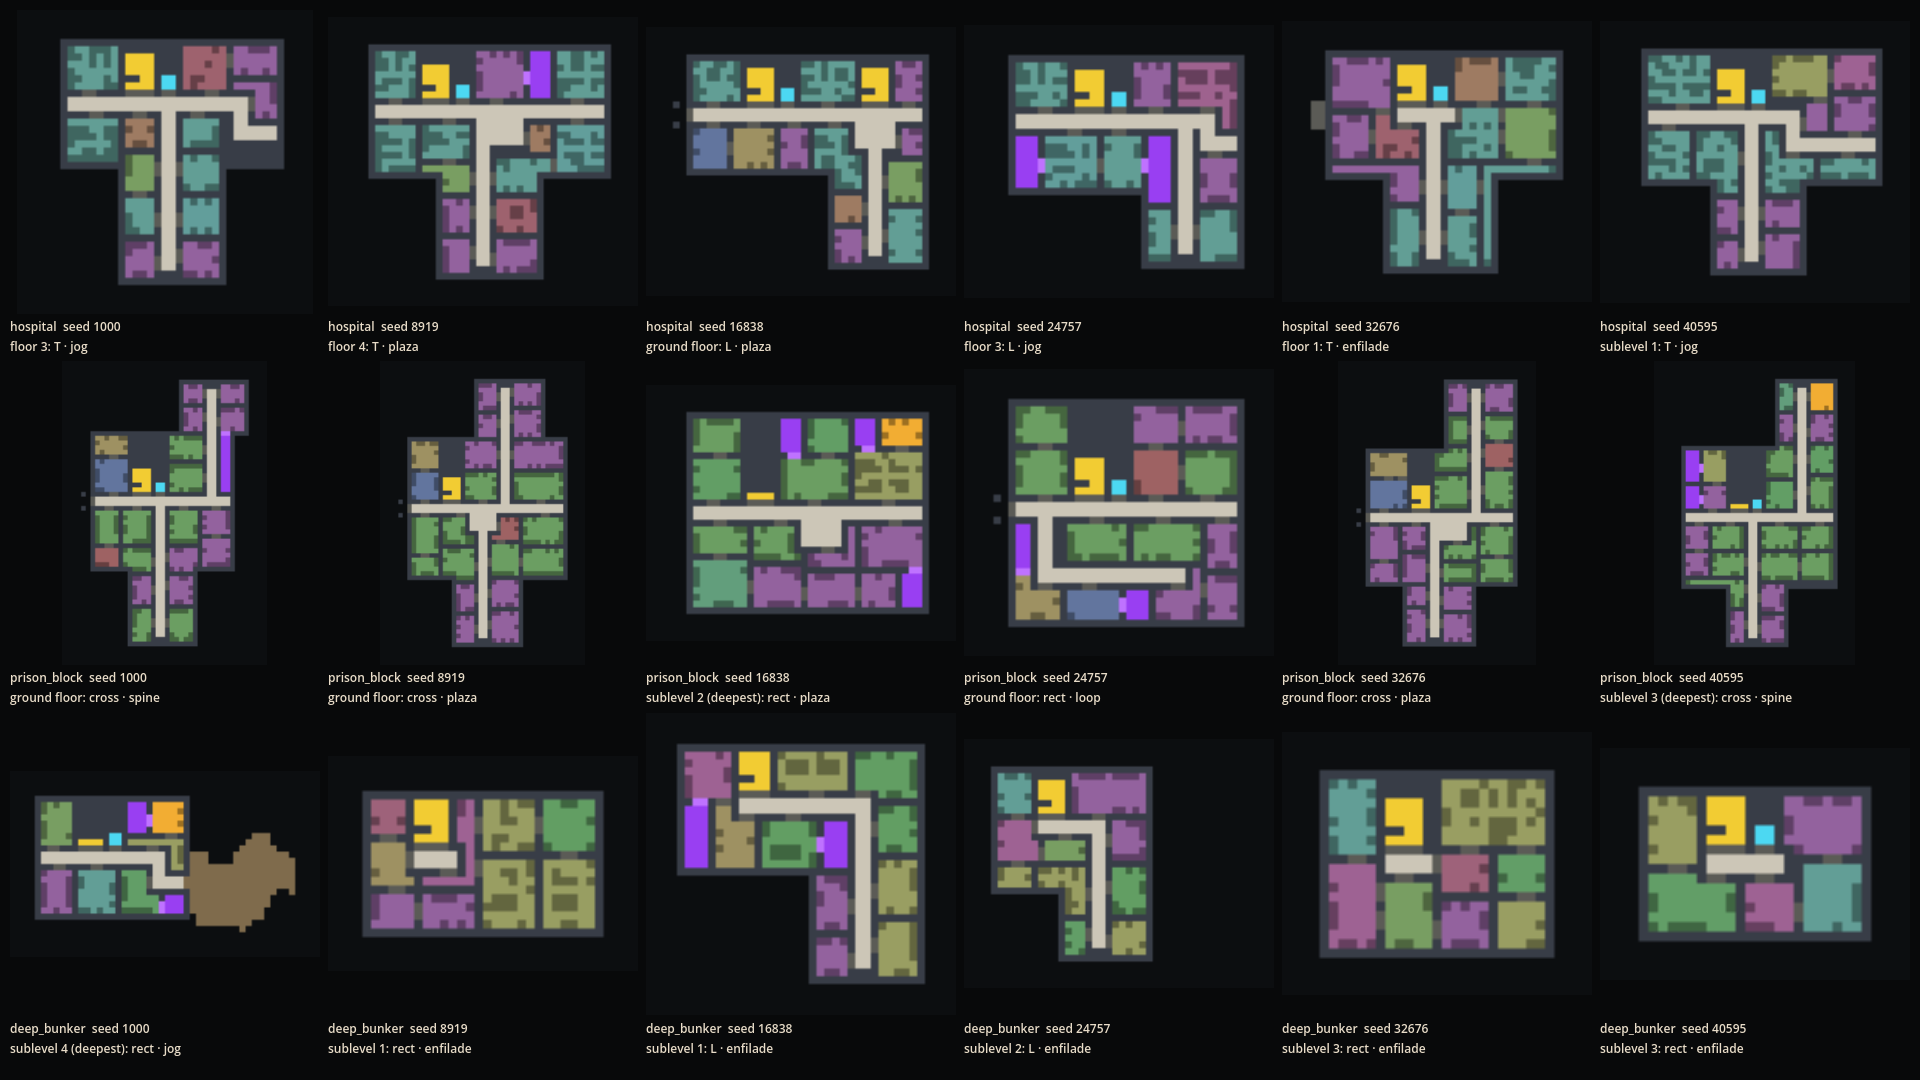
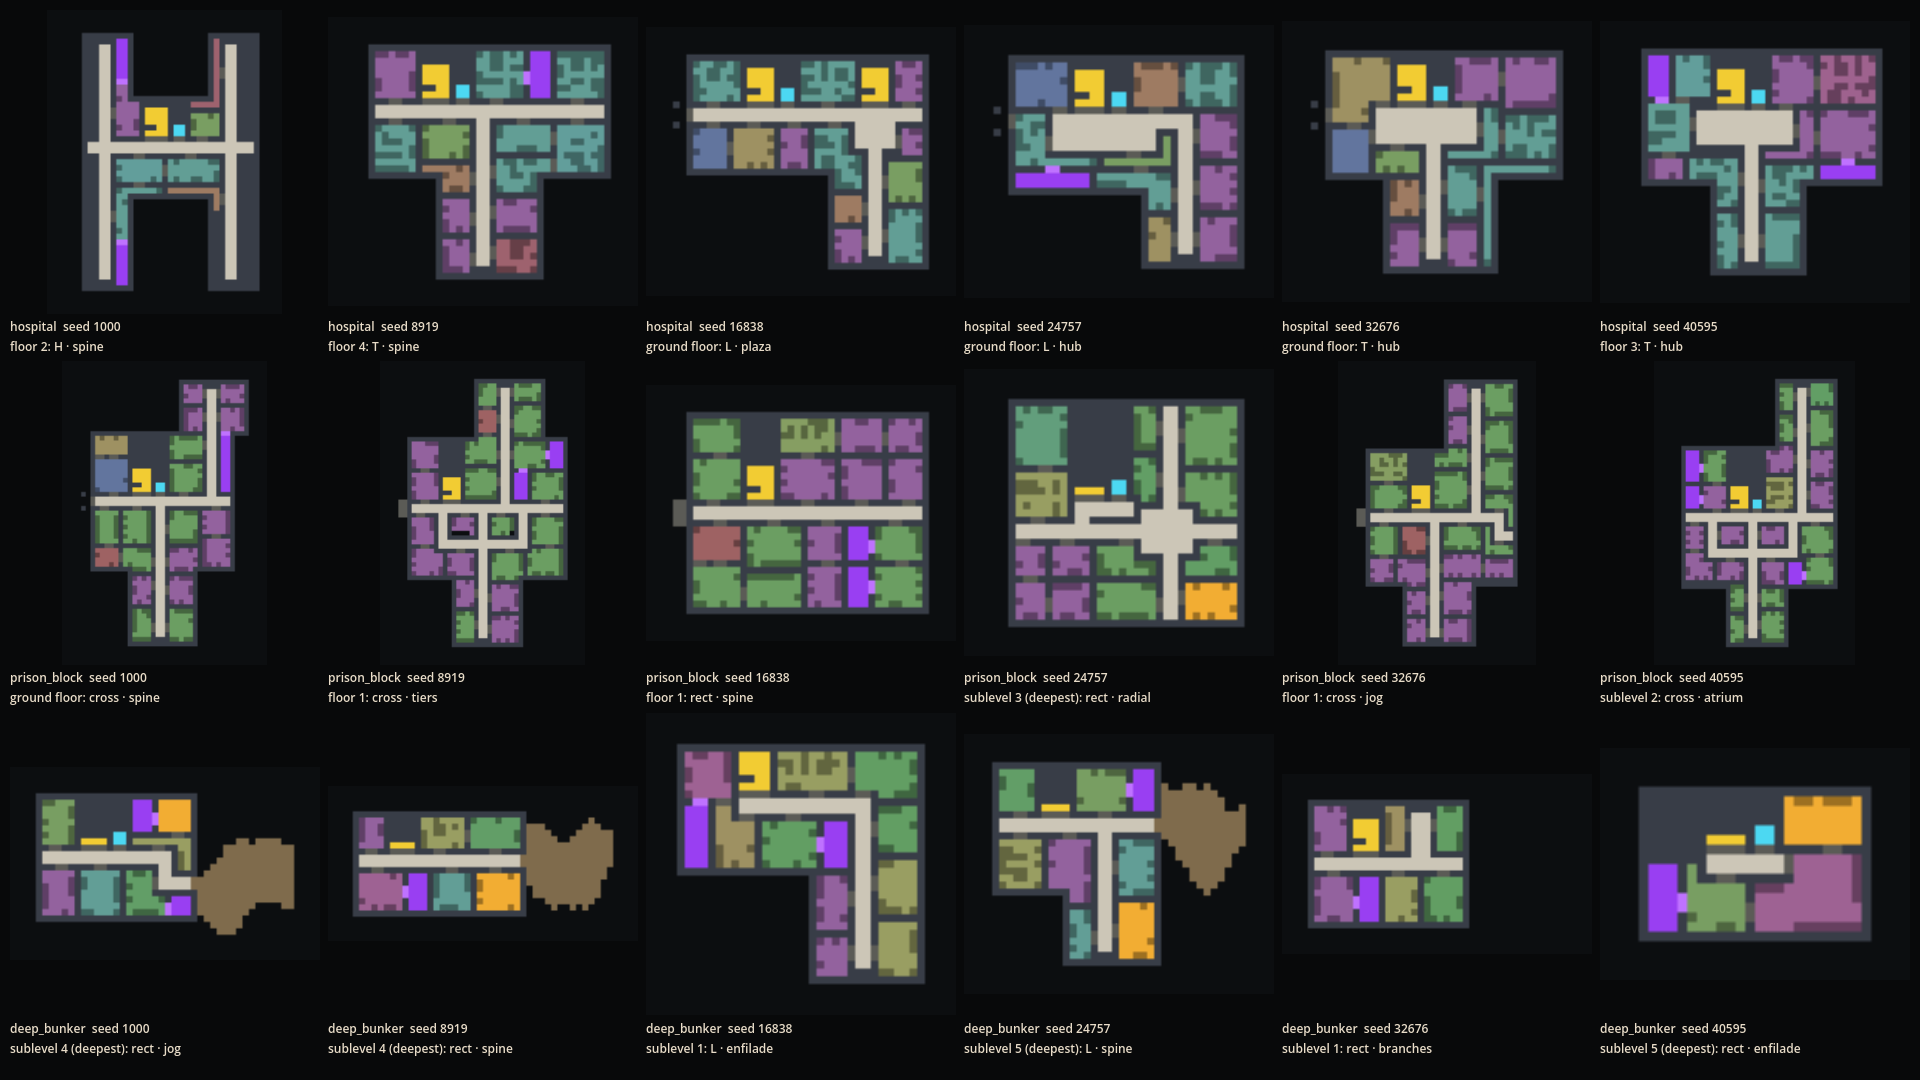
Circulation variety within a type: radial and tiered prisons, ward loops, hubs, branching bunkers
New circulation patterns: radial (a hub with spokes to every side), tiers (a
tiered atrium: galleries stacked round one void, storey on storey), racetrack
(a ward loop: two parallel corridors joined at both ends), hub (a hall round
the stair core with the wings branching off it) and branches (tunnels off a
main gallery). Round a courtyard the ring itself varies: a full cloister walk,
a horseshoe open on one side, or spokes out to the street. Prisons now walk
radial, tiered or cross; hospitals spread H and U wings with ward loops and
hubs; bunkers branch.

New check: circulation varies within a type (no pattern walks more than 45% of
a type's storeys; every type with a broad grammar uses at least three); the
commonest coarse topology is held to 15% of a type's seeds (was 25%).

Repairs found on the way: no cache or terminal stands on the plan's own way
from the door to the vault; a vault whose caches walled each other in keeps one
where it can be reached, and that one is the one it is judged by.

diff --git a/prototypes/poi-generator/src/Gen/Arch/Building.cs b/prototypes/poi-generator/src/Gen/Arch/Building.cs
@@ -91,6 +91,8 @@ public sealed partial class Building
         public byte[,] K = null!;
         public int[,] R = null!;            // room index for Free cells
         public string Pattern = "spine";
+        /// <summary>The ring this storey ran (loops, atriums, tiers): a tiered atrium stacks the same ring storey on storey.</summary>
+        public (int a, int b, int z1, int z2) Ring;
         public List<RoomPlan> Rooms = new();
         public int Corridor = -1;           // its corridor network's module
         public List<(int x, int z)> Holes = new();
@@ -399,9 +401,16 @@ public sealed partial class Building
         var rng = Rng.Fork($"plan{s}:{attempt}");
         // A building works through its repertoire: a circulation already used on another storey is less likely again.
         var usedPatterns = _plans.Values.Select(p => p.Pattern).ToList();
-        string pattern = options[Math.Max(0, rng.PickWeighted(options.Select(o => o.Weight * MathF.Pow(0.3f, usedPatterns.Count(u => u == o.Key))).ToList()))].Key;
+        // (Tiers are meant to repeat: a tiered atrium is galleries stacked round one void.)
+        string pattern = options[Math.Max(0, rng.PickWeighted(options.Select(o => o.Weight * (o.Key == "tiers" ? 1f : MathF.Pow(0.3f, usedPatterns.Count(u => u == o.Key)))).ToList()))].Key;
         if (attempt > 0 && options.Count > 1 && _plans.TryGetValue(s + 1, out var above) && above.Pattern == pattern)
             pattern = options[(options.FindIndex(o => o.Key == pattern) + attempt) % options.Count].Key;
+        // Round a courtyard the ring itself varies: a full cloister walk, a horseshoe open on one side, or spokes out to the street.
+        if (pattern == "court")
+        {
+            string[] forms = { "court", "cloister", "horseshoe" };
+            pattern = forms[Math.Max(0, rng.PickWeighted(forms.Select(fm => MathF.Pow(0.3f, usedPatterns.Count(u => u == fm))).ToList()))];
+        }
         plan.Pattern = pattern;
 
         var corr = new HashSet<(int, int)>();
@@ -419,11 +428,14 @@ public sealed partial class Building
         // The ring this storey runs (round the courtyard it is fixed; otherwise its size and form vary storey to storey).
         var ring = Ring;
         int ringForm = 0;
-        if (pattern is "loop" or "atrium")
+        if (pattern is "loop" or "atrium" or "tiers")
         {
-            ring = (rng.Between(4, 9), Wm - rng.Between(7, 11), Zs, Zm + Dm - rng.Between(6, 9));
+            ring = pattern == "tiers" && _plans.TryGetValue(s - 1, out var tierBelow) && tierBelow.Pattern == "tiers"
+                ? tierBelow.Ring
+                : (rng.Between(4, 9), Wm - rng.Between(7, 11), Zs, Zm + Dm - rng.Between(6, 9));
             if (pattern == "loop") ringForm = rng.Between(0, 2); // 0 a full ring, 1 a horseshoe, 2 a figure of eight
         }
+        plan.Ring = ring;
         switch (pattern)
         {
             case "spine":
@@ -451,9 +463,20 @@ public sealed partial class Building
             }
             case "loop":
             case "atrium":
+            case "tiers":
             case "court":
+            case "cloister":
+            case "horseshoe":
             {
                 var (a, b, z1, z2) = ring;
+                if (pattern == "horseshoe") ringForm = 1;
+                if (pattern == "cloister")
+                {
+                    int mz = (z1 + z2) / 2;
+                    Run(from, mz, a, mz + 1);
+                    Run(b, mz, to, mz + 1);
+                    Run((a + b) / 2, z2, (a + b) / 2 + 1, Zm + Dm - 2);
+                }
                 Run(from, z1, to, z1 + 1);
                 Run(a, z2, b + 1, z2 + 1);
                 bool westLeg = ringForm != 1 || rng.Chance(0.5f);
@@ -470,6 +493,30 @@ public sealed partial class Building
             case "enfilade":
                 Run(Cx, Zs, CoreEnd, Zs + 1);
                 break;
+            case "radial":
+            {
+                // A hub in the middle with spokes out to every side: the blocks hang off it.
+                int hx = Math.Clamp(Wm / 2, CoreEnd + 5, Math.Max(CoreEnd + 5, to - 6)), hz = Math.Clamp(Zm + Dm / 2, Zs + 3, Math.Max(Zs + 3, Zm + Dm - 6));
+                Run(hx - 3, hz - 2, hx + 3, hz + 3);
+                Run(from, hz, to, hz + 1);
+                Run(hx, Zm + 1, hx + 1, Zm + Dm - 2);
+                break;
+            }
+            case "racetrack":
+            {
+                // A ward loop: two parallel corridors joined at both ends, rooms inside and out.
+                int z2 = Math.Min(Zs + 8, Zm + Dm - 4);
+                Run(from, Zs, to, Zs + 1);
+                Run(from + 2, z2, to - 2, z2 + 1);
+                Run(from + 2, Zs, from + 3, z2 + 1);
+                Run(to - 3, Zs, to - 2, z2 + 1);
+                break;
+            }
+            case "hub":
+                // A hall round the stair core; the wings branch straight off it.
+                Run(Cx - 3, Zs, CoreEnd + 3, Zs + 4);
+                break;
+            case "branches":
             case "drifts":
             {
                 Run(from, Zs, to, Zs + 1);
@@ -497,7 +544,7 @@ public sealed partial class Building
         JoinCorridors(corr, K, Run);
 
         // The courtyard's inner block (open to the sky) or the atrium's void.
-        if (pattern == "atrium" && s > Math.Max(0, Bottom) && s >= 1)
+        if (pattern is "atrium" or "tiers" && s > Math.Max(0, Bottom) && s >= 1)
         {
             var (a, b, z1, z2) = ring;
             for (int z = z1 + 3; z <= z2 - 2; z++)
@@ -551,8 +598,11 @@ public sealed partial class Building
     bool Fits(string pattern, int s) => pattern switch
     {
         "atrium" when Floors < 2 => false,
-        "loop" or "atrium" => Dm >= 30 && Wm >= 30 && !Courtyard,
-        "court" => Courtyard,
+        "tiers" when Floors < 2 => false,
+        "loop" or "atrium" or "tiers" => Dm >= 30 && Wm >= 30 && !Courtyard,
+        "racetrack" => Zm + Dm - 4 - Zs >= 7 && !Courtyard,
+        "radial" => Dm >= 18 && Wm >= 24 && !Courtyard,
+        "court" or "cloister" or "horseshoe" => Courtyard,
         "enfilade" => s != 0,
         _ => !(Courtyard && pattern != "court"),
     };

diff --git a/prototypes/poi-generator/src/Gen/Poi.cs b/prototypes/poi-generator/src/Gen/Poi.cs
@@ -165,6 +165,30 @@ public static class PoiFactory
     /// Repair after the fixtures go in: a side cache that ended up walled in by the other fixtures
     /// (a cache in a pocket behind another) is taken out rather than left unreachable.
     /// </summary>
+    /// <summary>
+    /// Repair after the fixtures go in: no cache or terminal stands on the plan's own way from the
+    /// door to the vault (a stash set down in a narrow pass would close it). Those few move aside or go.
+    /// </summary>
+    static void ClearPath(PoiInstance inst)
+    {
+        var layout = inst.Layout;
+        if (layout.VaultModule < 0) return;
+        var plan = new NavGrid(layout.Blocks, layout.Occupied, layout.Extras.Lifts, layout.Extras.InSpace);
+        var vault = layout.Modules[layout.VaultModule];
+        Int3 goal = vault.Cells.Where(c => c.Y == vault.Min.Y && plan.Standable(c)).DefaultIfEmpty(layout.EntranceCell).First();
+        var path = plan.FindPath(layout.EntranceCell, goal);
+        if (path == null) return;
+        foreach (Int3 c in path.Take(System.Math.Max(0, path.Count - 2)))
+            foreach (Int3 q in new[] { c, c + Int3.Up })
+            {
+                var b = inst.Blocks.Get(q);
+                if (b.Type is not (BlockType.Cache or BlockType.Terminal) || inst.Caches.Any(k => k.Cell == q && k.InVault)) continue;
+                inst.Blocks.Set(q, Block.Air);
+                inst.Caches.RemoveAll(k => k.Cell == q && !k.InVault);
+                inst.Terminals.RemoveAll(t => t.Cell == q);
+            }
+    }
+
     static void Unblock(PoiInstance inst)
     {
         var nav = inst.Nav();
@@ -174,6 +198,24 @@ public static class PoiFactory
         foreach (var c in inst.Caches.Where(c => !c.Secret).ToList())
             if (nav.AccessCell(c.Cell, reach) is not Int3 && (!c.InVault || inst.Caches.Count(o => o.InVault && o != c && nav.AccessCell(o.Cell, reach) is Int3) > 0))
             { inst.Blocks.Set(c.Cell, Block.Air); inst.Caches.Remove(c); }
+        // A vault whose caches all ended up walled in by each other keeps one, moved where it can be reached;
+        // and a reachable vault cache comes first, the one the vault is judged by.
+        var vaultCaches = inst.Caches.Where(c => c.InVault).ToList();
+        if (vaultCaches.Count > 0 && vaultCaches.All(c => nav.AccessCell(c.Cell, reach) is not Int3))
+        {
+            var keep = vaultCaches[0];
+            var room = inst.Layout.Modules[keep.Module];
+            foreach (Int3 cell in room.Cells.Where(c => c.Y == room.Min.Y && inst.Blocks.Get(c).IsAir && reach.Contains(c)).OrderBy(c => Hash.Cell(c, 433)))
+            {
+                var block = inst.Blocks.Get(keep.Cell);
+                inst.Blocks.Set(keep.Cell, Block.Air);
+                inst.Blocks.Set(cell, block);
+                if (nav.AccessCell(cell, reach) is Int3) { keep.Cell = cell; break; }
+                inst.Blocks.Set(cell, Block.Air);
+                inst.Blocks.Set(keep.Cell, block);
+            }
+        }
+        inst.Caches = inst.Caches.OrderBy(c => c.InVault && nav.AccessCell(c.Cell, reach) is not Int3).ToList();
     }
 
     /// <summary>A core that cut the way to the vault (it stood in a narrow pass) moves to the first spot in a big room that doesn't.</summary>
@@ -217,6 +259,7 @@ public static class PoiFactory
         var rng = new Rng(Hash.Combine(layout.Seed ^ (ulong)layout.Rarity, spawnSeed, (ulong)state + 11));
 
         using (Prof.Time("fixtures")) Fixtures.Place(inst, rng.Fork("fixtures"));
+        ClearPath(inst);
         if (inst.HasCore && !Reaches(inst)) RelocateCore(inst);
         Unblock(inst);
         using (Prof.Time("protect")) Fixtures.Protect(inst);

diff --git a/prototypes/poi-generator/tests/PoiTest.cs b/prototypes/poi-generator/tests/PoiTest.cs
@@ -321,7 +321,9 @@ public partial class PoiTest : Node
     /// </summary>
     void Variety()
     {
-        int types = 0, layouts = 0, repeats = 0, storeyRepeats = 0, buildings = 0;
+        int types = 0, layouts = 0, repeats = 0, storeyRepeats = 0, buildings = 0, fewestPatterns = int.MaxValue;
+        float worstPattern = 0f;
+        string worstPatternType = "", fewestType = "";
         float worstShare = 0f;
         string worstType = "";
         var grammar = new Dictionary<string, Dictionary<string, int>>();
@@ -331,6 +333,7 @@ public partial class PoiTest : Node
             var full = new List<string>();
             var coarse = new List<string>();
             var mix = grammar[f.Id] = new Dictionary<string, int>();
+            var patterns = new Dictionary<string, int>();
             for (int i = 0; i < 20; i++)
             {
                 var l = PoiFactory.BuildLayout(_lib, f, 0, Rarity.Uncommon, Hash.Combine(0x7A21EUL, (ulong)i, Hash.Of(f.Id)));
@@ -338,6 +341,7 @@ public partial class PoiTest : Node
                 full.Add(Signature(l) + "#" + string.Join("|", l.Extras.Plans.Select(p => p.Signature)));
                 coarse.Add(string.Join("|", l.Extras.Plans.OrderBy(p => p.Building).ThenBy(p => p.Storey).Select(p => Topology(p.Signature))));
                 foreach (var p in l.Extras.Plans) mix[Grammar(p.Signature)] = mix.GetValueOrDefault(Grammar(p.Signature)) + 1;
+                foreach (var p in l.Extras.Plans.Where(p => p.Signature != "hut")) patterns[p.Signature.Split('/')[1]] = patterns.GetValueOrDefault(p.Signature.Split('/')[1]) + 1;
                 foreach (var b in l.Extras.Plans.GroupBy(p => p.Building))
                 {
                     buildings++;
@@ -348,9 +352,18 @@ public partial class PoiTest : Node
             repeats += full.Count - full.Distinct().Count();
             float share = coarse.GroupBy(c => c).Max(g => g.Count()) / (float)coarse.Count;
             if (share > worstShare && f.Generator == Generator.Building) { worstShare = share; worstType = f.Id; }
+            // Circulation shape: no one pattern walks most storeys of a type, and a type with a broad grammar uses it.
+            if (f.Generator == Generator.Building && patterns.Count > 0 && _lib.Programs[f.Program!].Plans.Count >= 4)
+            {
+                float top = patterns.Values.Max() / (float)patterns.Values.Sum();
+                if (top > worstPattern) { worstPattern = top; worstPatternType = f.Id; }
+                if (patterns.Count < fewestPatterns) { fewestPatterns = patterns.Count; fewestType = f.Id; }
+            }
         }
-        Check(repeats == 0 && worstShare <= 0.25f,
-            $"seeds differ within a type: {layouts} layouts of {types} types, {repeats} identical plans; the commonest coarse topology covers {worstShare:P0} of a type's seeds ({worstType}; at most 25%)");
+        Check(repeats == 0 && worstShare <= 0.15f,
+            $"seeds differ within a type: {layouts} layouts of {types} types, {repeats} identical plans; the commonest coarse topology covers {worstShare:P0} of a type's seeds ({worstType}; at most 15%)");
+        Check(worstPattern <= 0.45f && fewestPatterns >= 3,
+            $"circulation varies within a type: no pattern walks more than {worstPattern:P0} of a type's storeys ({worstPatternType}; at most 45%), and every type with a broad grammar uses at least {fewestPatterns} of its patterns ({fewestType})");
         Check(storeyRepeats == 0, $"every storey is its own: {buildings} buildings, {storeyRepeats} storeys sharing a plan with another storey of the same building");
 
         // Types that must never walk alike: footprint and circulation mixes overlap by less than half.
